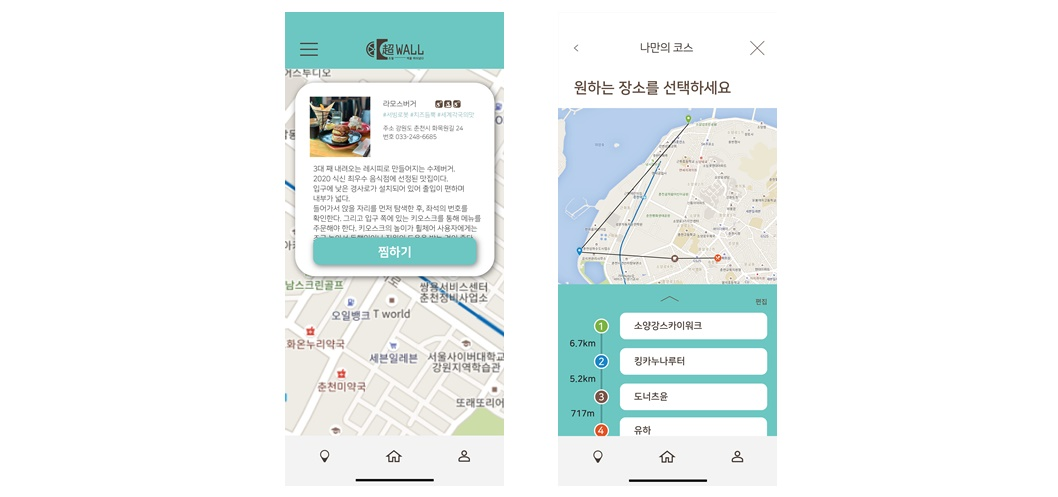
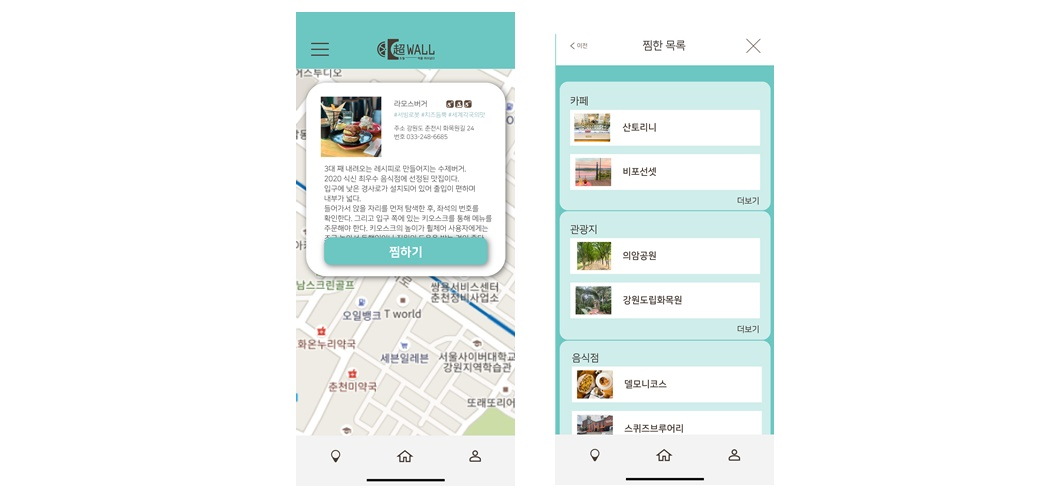
세부페이지2,3 추가

diff --git a/index.html b/index.html
@@ -382,9 +382,9 @@
           <div class="col-lg-4 col-md-6 portfolio-item filter-app">
             <img src="assets/img/img_app3.jpg" class="img-fluid" alt="">
             <div class="portfolio-info">
-              <h4>App 2</h4>
+              <h4>어플리케이션 기능 - 배리어프리 장소 제보</h4>
               <p>App</p>
-              <a href="portfolio-details.html" class="details-link" title="More Details"><i class="bx bx-link"></i></a>
+              <a href="portfolio-details3.html" class="details-link" title="More Details"><i class="bx bx-link"></i></a>
             </div>
           </div>
 
@@ -400,7 +400,7 @@
           <div class="col-lg-4 col-md-6 portfolio-item filter-app">
             <img src="assets/img/찜기능1%20페이지.png" class="img-fluid" alt="">
             <div class="portfolio-info">
-              <h4>Web 2</h4>
+              <h4>어플리케이션 기능 - 나만의 코스 & 찜</h4>
               <p>Web</p>
               <a href="portfolio-details2.html" class="details-link" title="More Details"><i class="bx bx-link"></i></a>
             </div>

diff --git a/portfolio-details3.html b/portfolio-details3.html
@@ -128,7 +128,7 @@
             <div class="portfolio-info">
               <h3>Project information</h3>
               <ul>
-                <li><strong>Title</strong>: APP Function - Like & My Course</li>
+                <li><strong>Title</strong>: APP Function - Reporting Barrier-free place</li>
                 <li><strong>Copyright</strong>: ⓒ 2022. 김규리 All Rights Reserved.</li>
                 <li><strong>Project date</strong>: 01 Jan, 2021</li>
               </ul>
